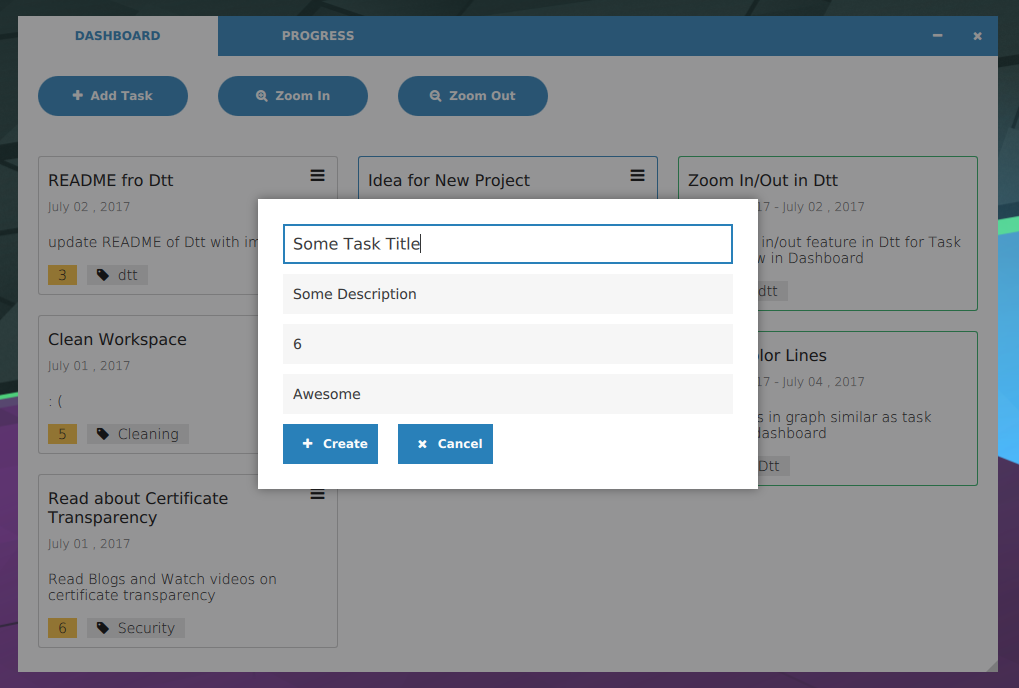
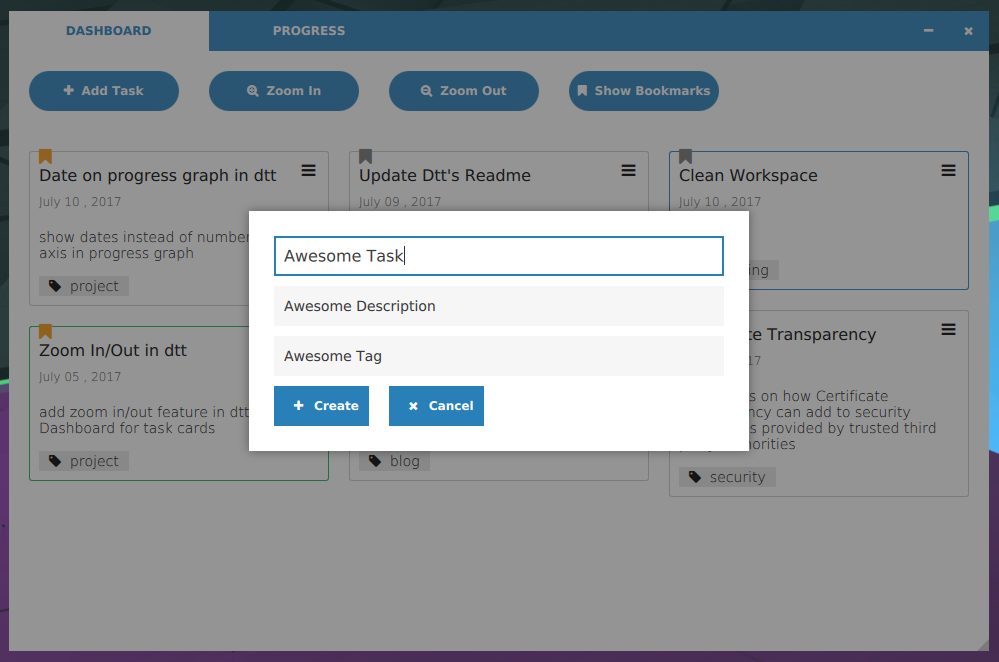
Update README and Using

Changed region(s): [[0.0, 0.0, 1.0, 0.997], [0.2482, 0.1208, 0.3413, 0.1511]]

diff --git a/Using.md b/Using.md
@@ -1,0 +1,69 @@
+# Using
+
+* [Dashboard](#DASHBOARD)
+* [Creating a Task](#CREATING-A-TASK)
+* [Closing or Deleting a Task](#CLOSING-OR-DELETING-TASK)
+* [Create/Show SubTasks](#SHOW-SUBTASKS)
+* [Bookmarks](#BOOKMARKS)
+* [Progress Graph](#PROGRESS-GRAPH)
+
+
+## DASHBOARD
+
+![GREY](images/grey.png) : Pending Task (i.e. some subtasks are pending)
+
+![GREEN](images/green.png) : Task with 100% Progress (i.e all subtasks completed)
+
+![BLUE](images/blue.png) : Task is closed
+
+![DASHBOARD](images/dashboard.png)
+
+## CREATING A TASK
+
+* click Add Task Btn on DASHBOARD to create a task
+* fill details of your Task
+
+![CREATETASK](images/createtask.png)
+
+## CLOSING OR DELETING TASK
+
+* click menu btn on a task to close/reopen or delete
+
+![MENU](images/menu.png)
+
+
+## SHOW SUBTASKS
+
+* click on a Task to show details like subtasks, progress (% of task done)
+
+![TASKDETAIL](images/taskdetail.png)
+
+* click on subtask to show full details in left pane
+
+![PENDINGSUBTASK](images/pendingsubtask.png) 
+
+> qml's Text object displays rich text so you can format your subtask using b, i, u, li, a, etc
+
+
+## BOOKMARKS
+
+* a task can be bookmarked by clicking on bookmark btn on top of a task card
+* click on Bookmarks btn on Dashboard to show bookmarked tasks only
+
+![BOOKMARKEDTASKS](images/bookmarks.png)
+
+## PROGRESS GRAPH
+
+* click PROGRESS Tab for showing the progress
+
+![PROGRESS](images/progressgraph.png)
+
+Axis
+* X : 7 days , left most being the oldest and right most denotes today
+* Y : no of subtasks
+
+Lines
+* Pending line shows total subtasks created on a particular day
+* Completed shows total total subtasks completed on a particular day
+
+> if a task does not have any subtasks in it, then that task will be considered as one subtask for calculating progress graph

diff --git a/README.md b/README.md
@@ -3,35 +3,6 @@ add your tasks with their importance and dtt will show your progress of last 7 d
 
 ![DASHBOARD](images/dashboard.png)
 
-### Using
-dtt is very easy to use application
+![PROGRESS](images/progressgraph.png)
 
-Tasks on Left means Pending tasks, on the middle are Work In Progress tasks and on the right are completed tasks.
-
-* click Add Task Btn on DASHBOARD to create a task
-
-![ADDBTN](images/addbtn.png)
-
-
-* fill details of your Task
-
-![CREATETASK](images/createtask.png)
-
-
-* click menu btn on a task for stepping or deleting a task
-
-![MENU](images/menu.png)
-
-
-* click PROGRESS Tab for showing the progress
-
-![PROGRESS](images/graph.png)
-
-Axis
-* X : 7 days , left most being the oldest and right most denotes today
-* Y : total score (Pending/working for/Completed)
-
-Lines
-* Pending line shows total score of tasks pending from a particular day
-* WIP line shows total score of WIP tasks from a particular day
-* Completed shows total score of tasks completed on a particular day
+See [USING](Using.md)
